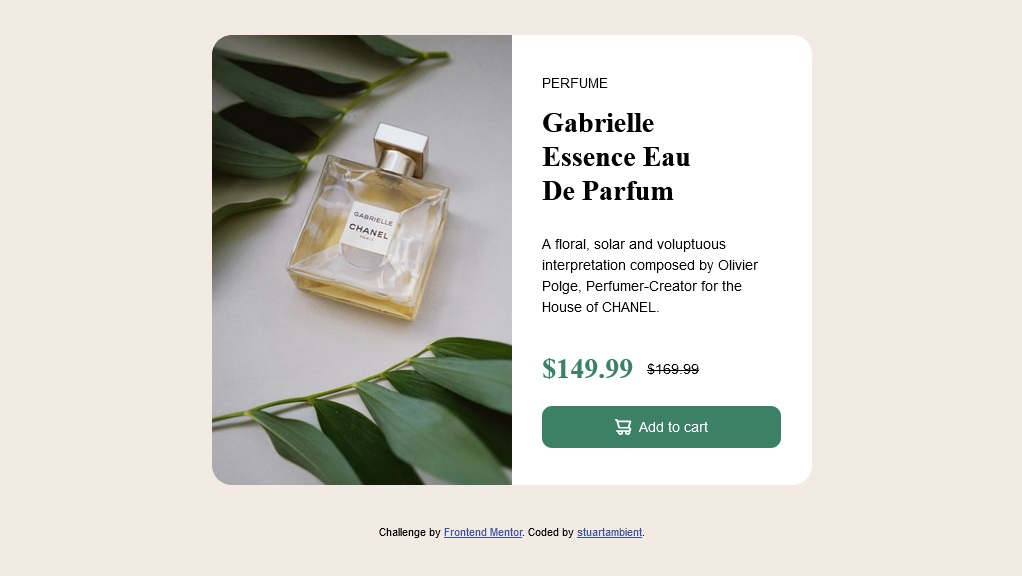
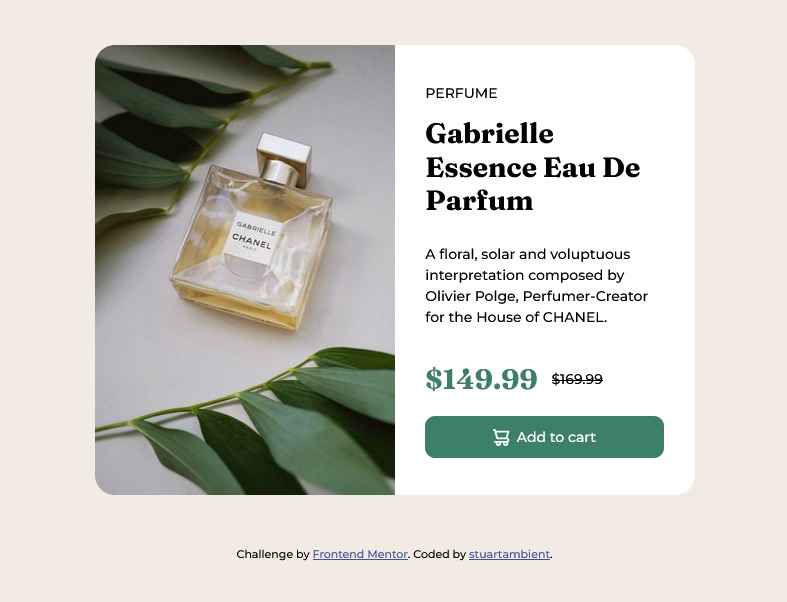
fixed problem with font import

diff --git a/index.html b/index.html
@@ -5,6 +5,9 @@
     <meta charset="UTF-8" />
     <meta name="viewport" content="width=device-width, initial-scale=1.0" />
     <!-- displays site properly based on user's device -->
+    <style>
+      @import url('https://fonts.googleapis.com/css2?family=Fraunces:wght@700&family=Montserrat:wght@500;700&display=swap');
+    </style>
 
     <link
       rel="icon"
@@ -32,10 +35,7 @@
         <!--       </div> -->
         <div class="component__content--wrapper">
           <span class="component__category">PERFUME</span>
-          <h1 class="component__product">
-            Gabrielle<br />
-            Essence Eau <br />De Parfum
-          </h1>
+          <h1 class="component__product">Gabrielle Essence Eau De Parfum</h1>
           <p class="component__description">
             A floral, solar and voluptuous interpretation composed by Olivier
             Polge, Perfumer-Creator for the House of CHANEL.

diff --git a/style.css b/style.css
@@ -6,8 +6,6 @@
   --NEUTRAL-3: hsl(0, 0%, 100%);
 }
 
-@import url('https://fonts.googleapis.com/css2?family=Fraunces:opsz,wght@9..144,700&family=Montserrat:wght@500;700&display=swap');
-
 html {
   box-sizing: border-box;
 }
@@ -84,13 +82,13 @@ body {
   margin: 0;
   vertical-align: baseline;
   font-family: 'Fraunces', serif;
-  font-size: 2rem;
+  font-weight: 500;
   line-height: 1.2;
 }
 
-p {
+/* p {
   font-family: 'Montserrat', sans-serif;
-}
+} */
 
 button,
 input {
@@ -138,7 +136,7 @@ input {
   }
   .component__product,
   .component__prices--sale {
-    font-size: 1.6rem;
+    font-size: 1.7rem;
   }
   .component__content--wrapper {
     padding: 1rem;
